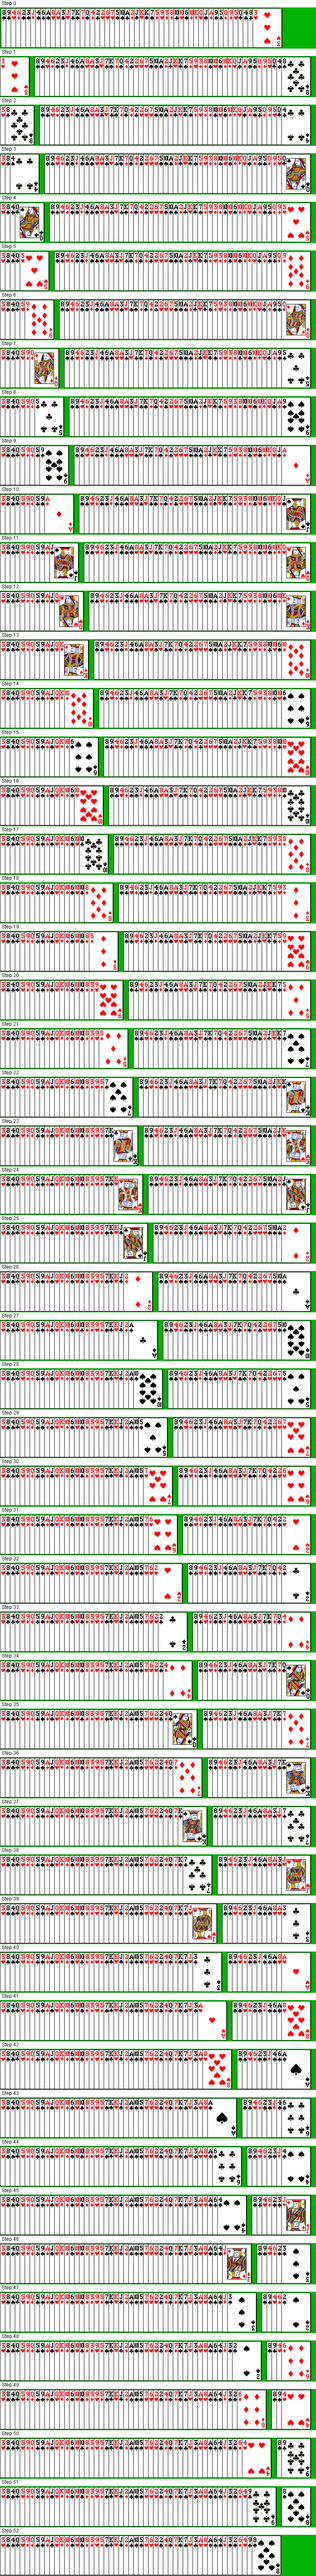
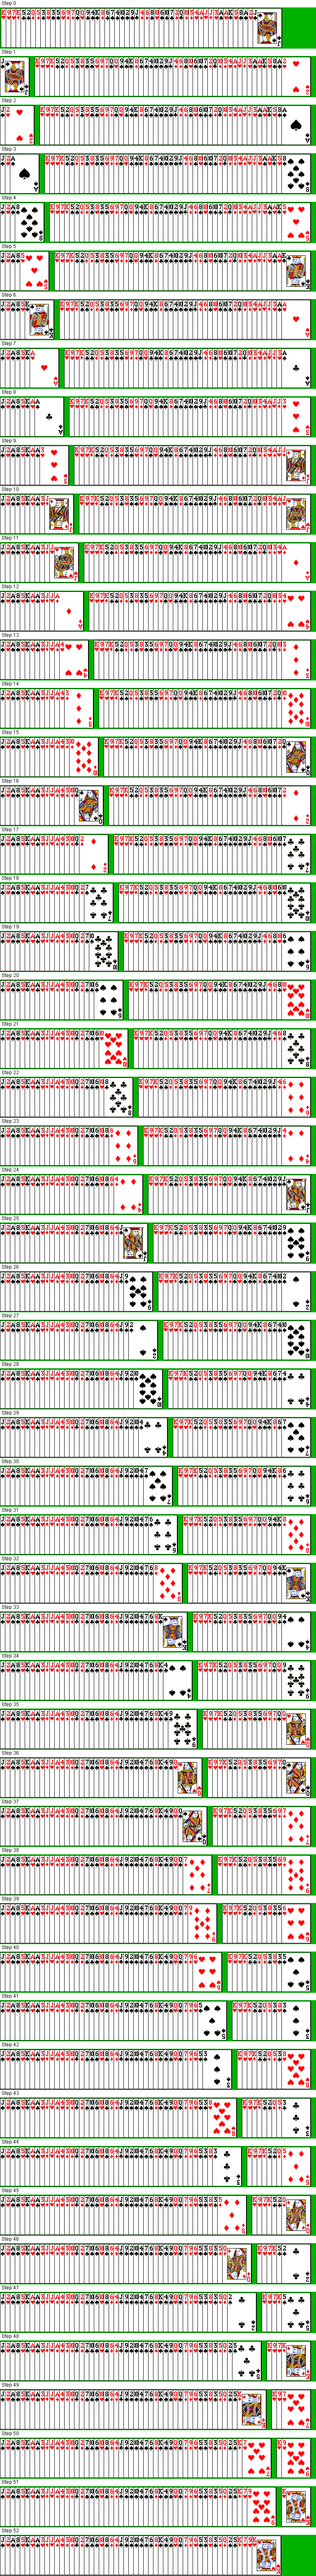
selection sort

diff --git a/SelectionSort.java b/SelectionSort.java
@@ -1,24 +1,81 @@
+import java.util.Collections;
+
+/**
+ * Program sorts cards using Selection Sort, and demonstrates use of a recorder.
+ */
 public class SelectionSort {
   
+  /**
+   * Sorts the given pile of cards using Selection Sort
+   * @param unsorted the pile of cards to sort
+   * @return a new pile of cards containing the same cards as unsorted, but in sorted order
+   */
+  public static CardPile sort(CardPile unsorted) {
+  return sort(unsorted, null);
+  }
+
+  /**
+   * Sorts the given pile of cards using Selection Sort, and uses the given recorder to record the steps of the algorithm.
+   * @param unsorted the pile of cards to sort
+   * @param record the recorder to use to record the steps of the algorithm; if null, no recording will be done
+   * @return a new pile of cards containing the same cards as unsorted, but in sorted order
+   */
   public static CardPile sort(CardPile unsorted, SortRecorder record) {
-    
-    // register the starting configuration with the recorder
-    record.add(unsorted);
 
-    // Here is the result list you will be creating
     CardPile sorted = new CardPile();
-  
-    // ***********************************************************
-    // Here is where you'll do the "work" of SelectionSort:
-    //   - Use sorted to store the "sorted portion"
-    //   - Don't forget to register the new state with the
-    //     recorder after each card is transferred:
-    //        record.next();        // tell it this is a new step
-    //        record.add(sorted);   // the sorted pile
-    //        record.add(unsorted); // the unsorted pile
-    // ***********************************************************
 
-    // return the sorted result here
+    if (record != null) { 
+      record.add(unsorted);
+    }
+
+    while (unsorted.size() > 0) {
+      Card c1 = unsorted.peekFirst();
+
+      for (Card card : unsorted) {
+        if (card.compareTo(c1) < 0) {
+          c1 = card;
+        }
+      }
+      unsorted.remove(c1);
+      sorted.add(c1);
+      
+      if (record != null) {
+        record.next();
+        record.add(sorted);
+        record.add(unsorted);
+      }
+    }
+
     return sorted;
+  }
+
+  /**
+   * Starts the program running
+   * @param args not used
+   */
+  public static void main(String args[]) {
+
+    // set up a class to record and display the sorting results
+    SortRecorder recorder = new SortRecorder();
+
+    // set up the deck of cards
+    Card.loadImages(recorder);
+    CardPile cards = new CardPile(Card.newDeck(true), 2, 2);
+
+    // for debugging purposes, uncomment this to
+    // work with a smaller number of cards:
+    //cards = cards.split(cards.get(39));
+
+    // mix up the cards
+    Collections.shuffle(cards);
+
+    // in your program, this would be a call to a real sorting algorithm
+    cards = SelectionSort.sort(cards, recorder);
+
+    // We can print out the (un)sorted result:
+    System.out.println(cards);
+
+    // make window appear showing the record
+    recorder.display("Card Sort Demo: SelectionSort");
   }
 }

diff --git a/LinearSearch.java b/LinearSearch.java
@@ -34,13 +34,10 @@ public class LinearSearch {
     // If you are recording the search visually, take one snapshot
     // per comparison so the viewer shows the search progression.
     // ***********************************************************
-
-    if (record != null) { 
-      record.add(cards);
-    }
     for (Card card : cards) {
       if (record != null) { 
         record.next(); 
+        record.add(cards);
       }
         if (card.compareTo(target) == 0) {
           return true;
